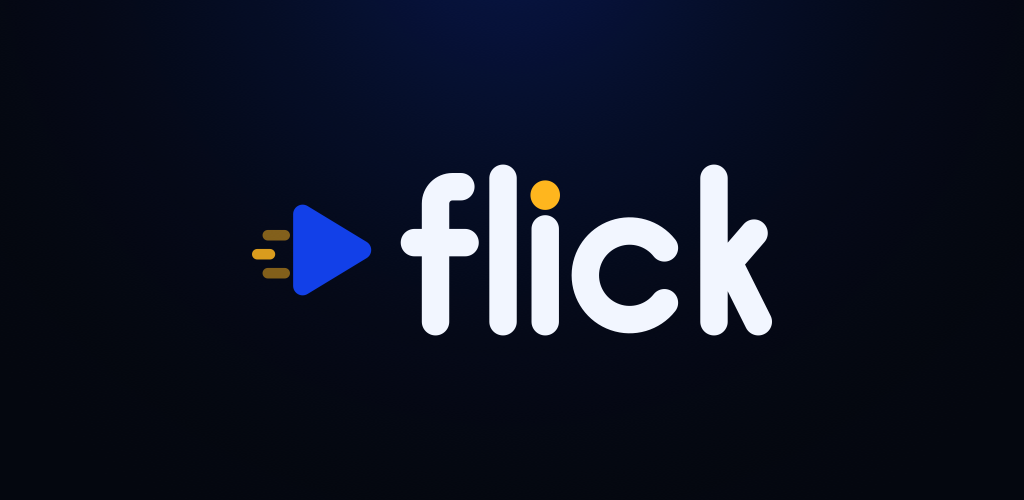
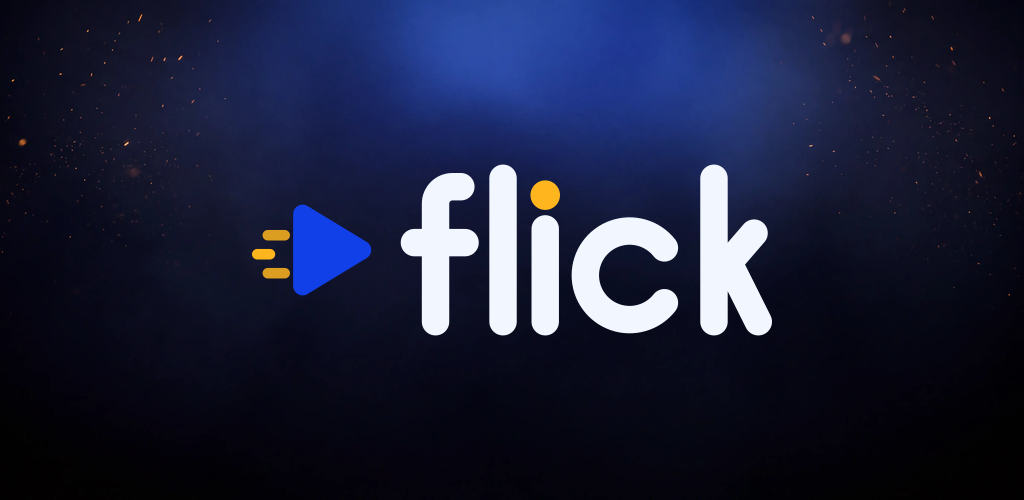
Give the feature graphics a room to sit in
The lockup on a flat wash was honest but quiet, and a feature graphic is the one
asset that has to earn attention at the top of a listing. Both now put the same
vector lockup over a generated cinematic backdrop.

Chosen by bake-off rather than by taste alone: two concepts across the three
models that do native 21:9 — the only aspect that crops to Play's 2.048:1
without inventing pixels. Nano Banana Pro was the only one that held the brand
palette instead of drifting violet AND kept the centre clear enough for a white
wordmark, so rounds two and three refined on it.

Two prompt findings, kept here because they will matter again for the promo
video. Describing the empty centre as a "band across the middle third" made the
model draw a literal rectangle with hard edges through the frame; describing it
by its lighting instead — "the center of the frame is unlit and empty" — plus an
explicit "no rectangles, no borders" removed it. And naming the brand hexes in
the prompt held #1240E8 and #FFB61E far better than colour words did.

The lockup is composited as vector, never generated. Models mangle letterforms
and the wordmark is the one element that has to be exactly right.

Speed bars are lifted to 0.85/1.0 in these two assets. The shipped 0.45/0.85
reads as pale amber over the light phone ground and as muddy brown over
near-black — the same reason the TV launcher banner's bars look dull. No app art
changed here; that banner is worth fixing on its own.
[…]

Changed region(s): [[0.0938, 0.0, 0.9062, 0.57], [0.0, 0.27, 0.0312, 0.3]]

diff --git a/docs/play-release.md b/docs/play-release.md
@@ -213,6 +213,19 @@ Requires the free Flick app on an Android phone.
 | `flick-tv-feature-1024x500.png` | TV listing feature graphic |
 | `flick-tv-banner-1280x720.png` | **TV banner** — required for the TV listing |
 | `flick-tv-screenshot-01-idle.png` | TV screenshot (at least 1 required) |
+| `*-flat.png` | Plain-lockup alternates, if the atmospheric ones ever need replacing |
+| `backdrops/*.jpg` | Source art, so a composite can be rebuilt without regenerating |
+
+Icons and the TV banner render from the apps' own vector drawables, so listing and
+device cannot drift. The two feature graphics put that same vector lockup over a
+generated backdrop — the lockup is never generated, because models mangle letterforms
+and the wordmark is the one thing that has to be exact.
+
+The mark's speed bars sit at 0.85/1.0 opacity in the feature graphics rather than the
+shipped 0.45/0.85. Over the light phone ground the shipped values read as pale amber;
+over near-black they collapse to muddy brown. Only the store assets differ — no app
+art was touched — but the same effect is visible in the on-device TV launcher banner,
+which is worth fixing separately.
 
 Still needed: **at least 2 phone screenshots**, and ideally two or three more TV
 screenshots showing playback. Both need the phone connected.
